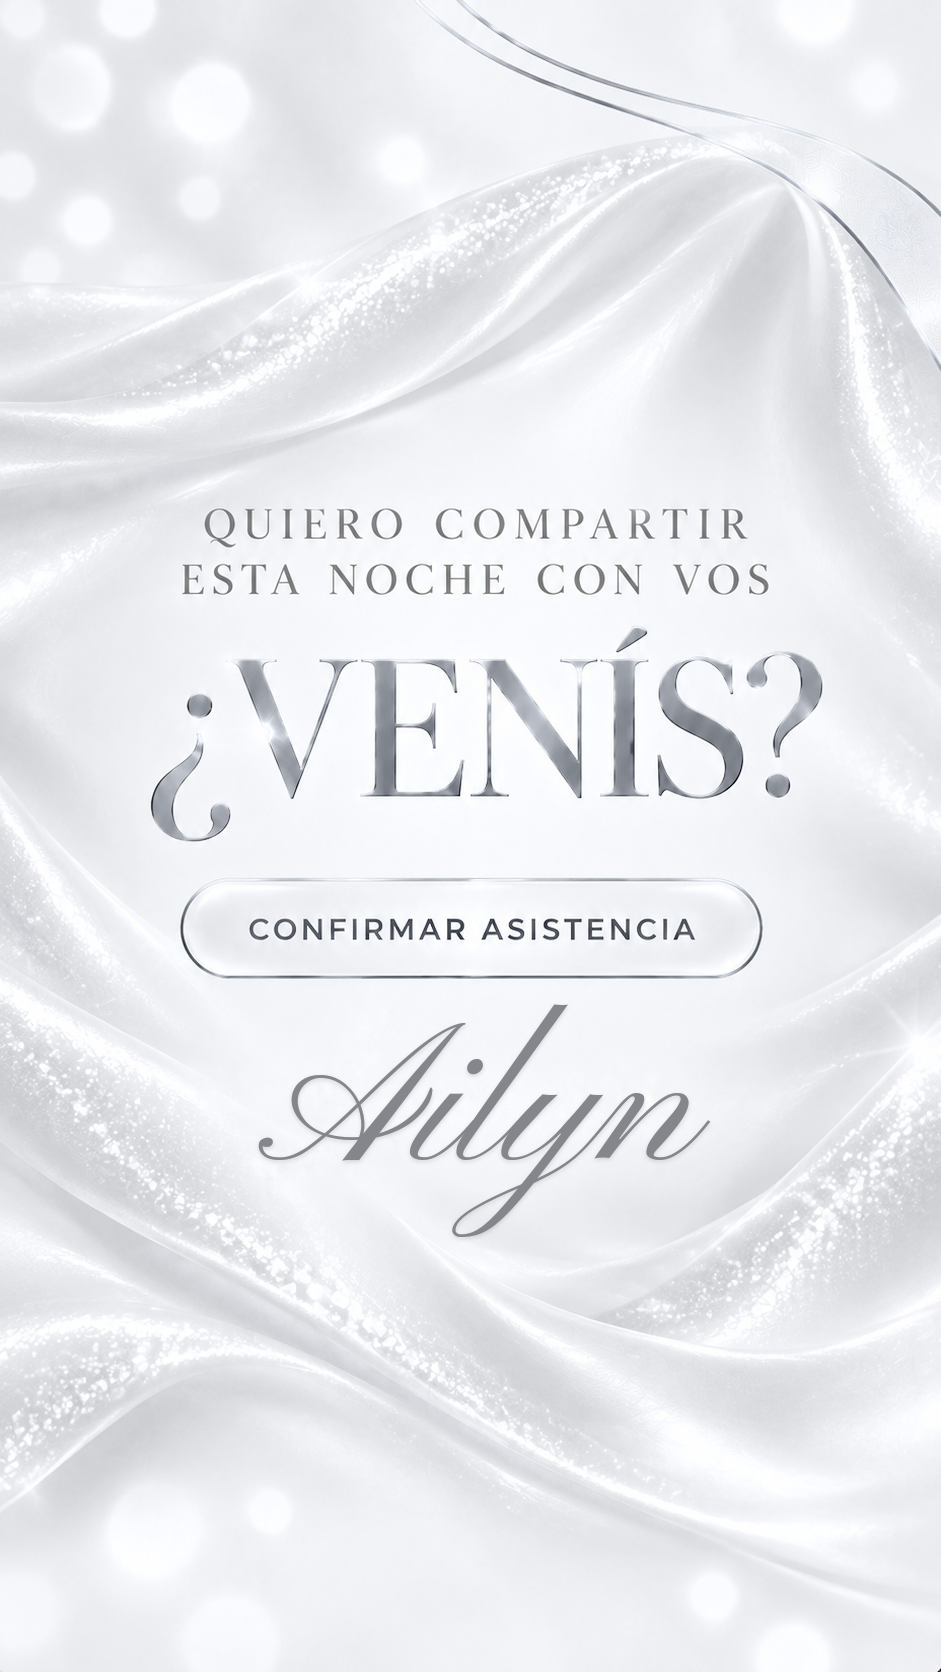
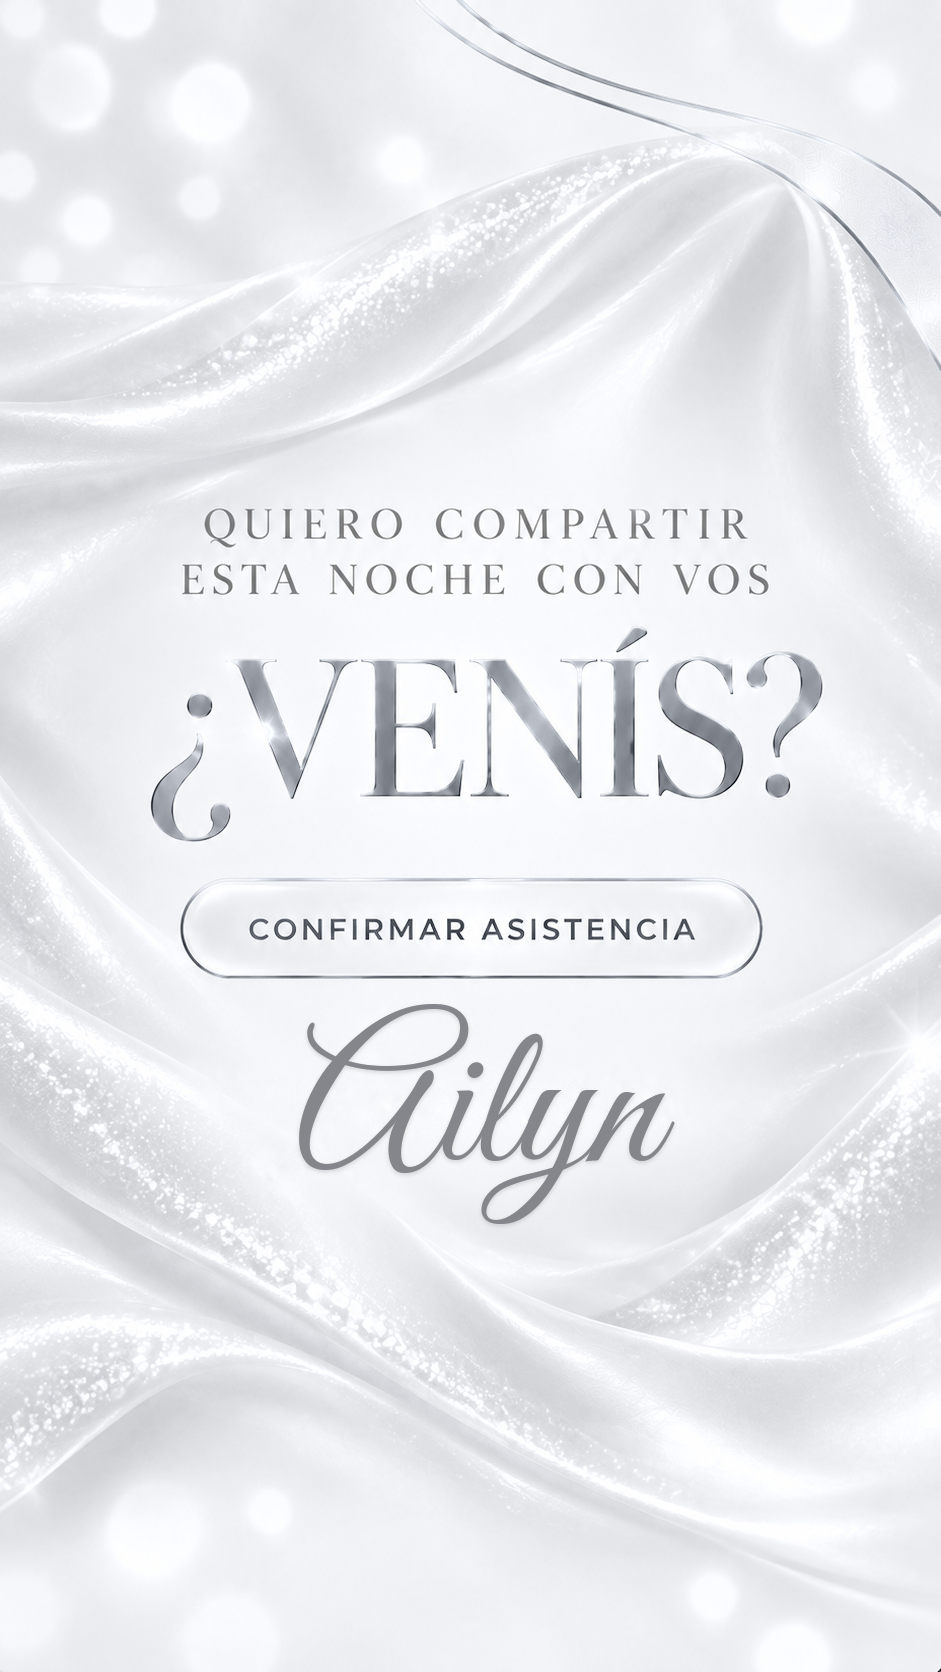
Volver a la cursiva Great Vibes para el nombre, manteniendo el color

Changed region(s): [[0.3082, 0.5909, 0.7396, 0.7464]]

diff --git a/styles.css b/styles.css
@@ -25,9 +25,9 @@ footer{text-align:center;padding:48px 20px 42px;background:linear-gradient(#fafa
 /* Name as live text (crisp on any screen) with silver relief, sweeping shine and sparkles.
    Sizes/positions follow the background image, which is drawn with object-fit:cover (941x1672). */
 .glam-name{--w:min(100vw,560px);position:absolute;z-index:6;left:0;right:0;text-align:center;pointer-events:none;transform:translateY(-50%)}
-.welcome-name{--h:max(100dvh,var(--w)*1.7768);top:calc(50% + (.432 - .5)*var(--h));font-size:max(calc(var(--w)*.255),calc(100dvh*.1435))}
-.hero-name{--h:max(100svh,var(--w)*1.7768);top:calc(50% + (.512 - .5)*var(--h));font-size:max(calc(var(--w)*.262),calc(100svh*.1475))}
-.glam-text{position:relative;display:inline-block;padding:.12em .25em .3em;font-family:"Pinyon Script",cursive;line-height:1;color:#85858c;filter:drop-shadow(0 1px 0 rgba(255,255,255,.95)) drop-shadow(0 2px 2px rgba(35,35,50,.4))}
+.welcome-name{--h:max(100dvh,var(--w)*1.7768);top:calc(50% + (.432 - .5)*var(--h));font-size:max(calc(var(--w)*.3188),calc(100dvh*.1794))}
+.hero-name{--h:max(100svh,var(--w)*1.7768);top:calc(50% + (.512 - .5)*var(--h));font-size:max(calc(var(--w)*.34),calc(100svh*.1914))}
+.glam-text{position:relative;display:inline-block;padding:.12em .25em .3em;font-family:"Great Vibes",cursive;line-height:1;color:#85858c;filter:drop-shadow(0 1px 0 rgba(255,255,255,.95)) drop-shadow(0 2px 2px rgba(35,35,50,.4))}
 .glam-name i{position:absolute;width:.16em;height:.16em;background:radial-gradient(circle,#fff 0 16%,rgba(255,255,255,0) 17%),linear-gradient(#fff,#fff) center/12% 100% no-repeat,linear-gradient(#fff,#fff) center/100% 12% no-repeat;filter:drop-shadow(0 0 3px #fff) drop-shadow(0 0 6px rgba(200,205,225,.9));opacity:0;animation:nameTwinkle 2.6s ease-in-out infinite}
 .glam-name i:nth-child(2){left:30%;top:18%;animation-delay:.2s}
 .glam-name i:nth-child(3){left:45%;top:52%;width:.11em;height:.11em;animation-delay:1.1s}
@@ -42,7 +42,7 @@ footer{text-align:center;padding:48px 20px 42px;background:linear-gradient(#fafa
 .guests-card{position:absolute;z-index:4;left:50%;top:50%;transform:translate(-50%,-50%);width:84%;padding:clamp(28px,8vw,44px) clamp(14px,4vw,28px);text-align:center;border-radius:28px;background:rgba(255,255,255,.62);border:1px solid rgba(165,165,174,.55);box-shadow:0 18px 45px rgba(60,60,75,.14),inset 0 1px 0 rgba(255,255,255,.9);-webkit-backdrop-filter:blur(6px);backdrop-filter:blur(6px)}
 .guests-card:before{content:"";position:absolute;inset:7px;border-radius:22px;border:1px solid rgba(175,175,184,.4);pointer-events:none}
 .guests-kicker{margin:0;font-size:clamp(10px,2.9vw,15px);font-weight:500;letter-spacing:.28em;color:#6e6e73}
-.guests-names{margin:.35em 0 .15em;font-family:"Pinyon Script",cursive;font-size:clamp(32px,9vw,52px);line-height:1.25;color:#85858c;filter:drop-shadow(0 1px 0 rgba(255,255,255,.95)) drop-shadow(0 2px 2px rgba(35,35,50,.35));overflow-wrap:anywhere}
+.guests-names{margin:.35em 0 .15em;font-family:"Great Vibes",cursive;font-size:clamp(38px,11vw,62px);line-height:1.15;color:#85858c;filter:drop-shadow(0 1px 0 rgba(255,255,255,.95)) drop-shadow(0 2px 2px rgba(35,35,50,.35));overflow-wrap:anywhere}
 .guests-ornament{display:block;width:60%;height:12px;margin:6px auto 16px;background:linear-gradient(90deg,transparent,rgba(120,120,128,.8) 45%,transparent 45%,transparent 55%,rgba(120,120,128,.8) 55%,transparent) center/100% 1px no-repeat,radial-gradient(circle,#7d7d84 0 2.5px,transparent 3px) center/12px 12px no-repeat}
 .guests-places{display:inline-block;margin:0;padding:.5em 1.1em;white-space:nowrap;border-radius:999px;font-family:"Cormorant Garamond",serif;font-size:clamp(16px,4.5vw,24px);font-weight:600;font-variant-numeric:lining-nums;letter-spacing:.03em;color:#4d4d53;background:linear-gradient(180deg,#fff,#efeff2);border:1.5px solid #b4b4bb;box-shadow:0 4px 12px rgba(60,60,75,.12),inset 0 1px 0 #fff}
 .guests-places:empty{display:none}

diff --git a/index.html b/index.html
@@ -19,7 +19,7 @@
   <title>Mis XV — Ailyn</title>
   <link rel="preconnect" href="https://fonts.googleapis.com">
   <link rel="preconnect" href="https://fonts.gstatic.com" crossorigin>
-  <link href="https://fonts.googleapis.com/css2?family=Cormorant+Garamond:wght@400;500;600&family=Pinyon+Script&family=Montserrat:wght@300;400;500;600&display=swap" rel="stylesheet">
+  <link href="https://fonts.googleapis.com/css2?family=Cormorant+Garamond:wght@400;500;600&family=Great+Vibes&family=Montserrat:wght@300;400;500;600&display=swap" rel="stylesheet">
   <link rel="stylesheet" href="styles.css">
 </head>
 <body>
